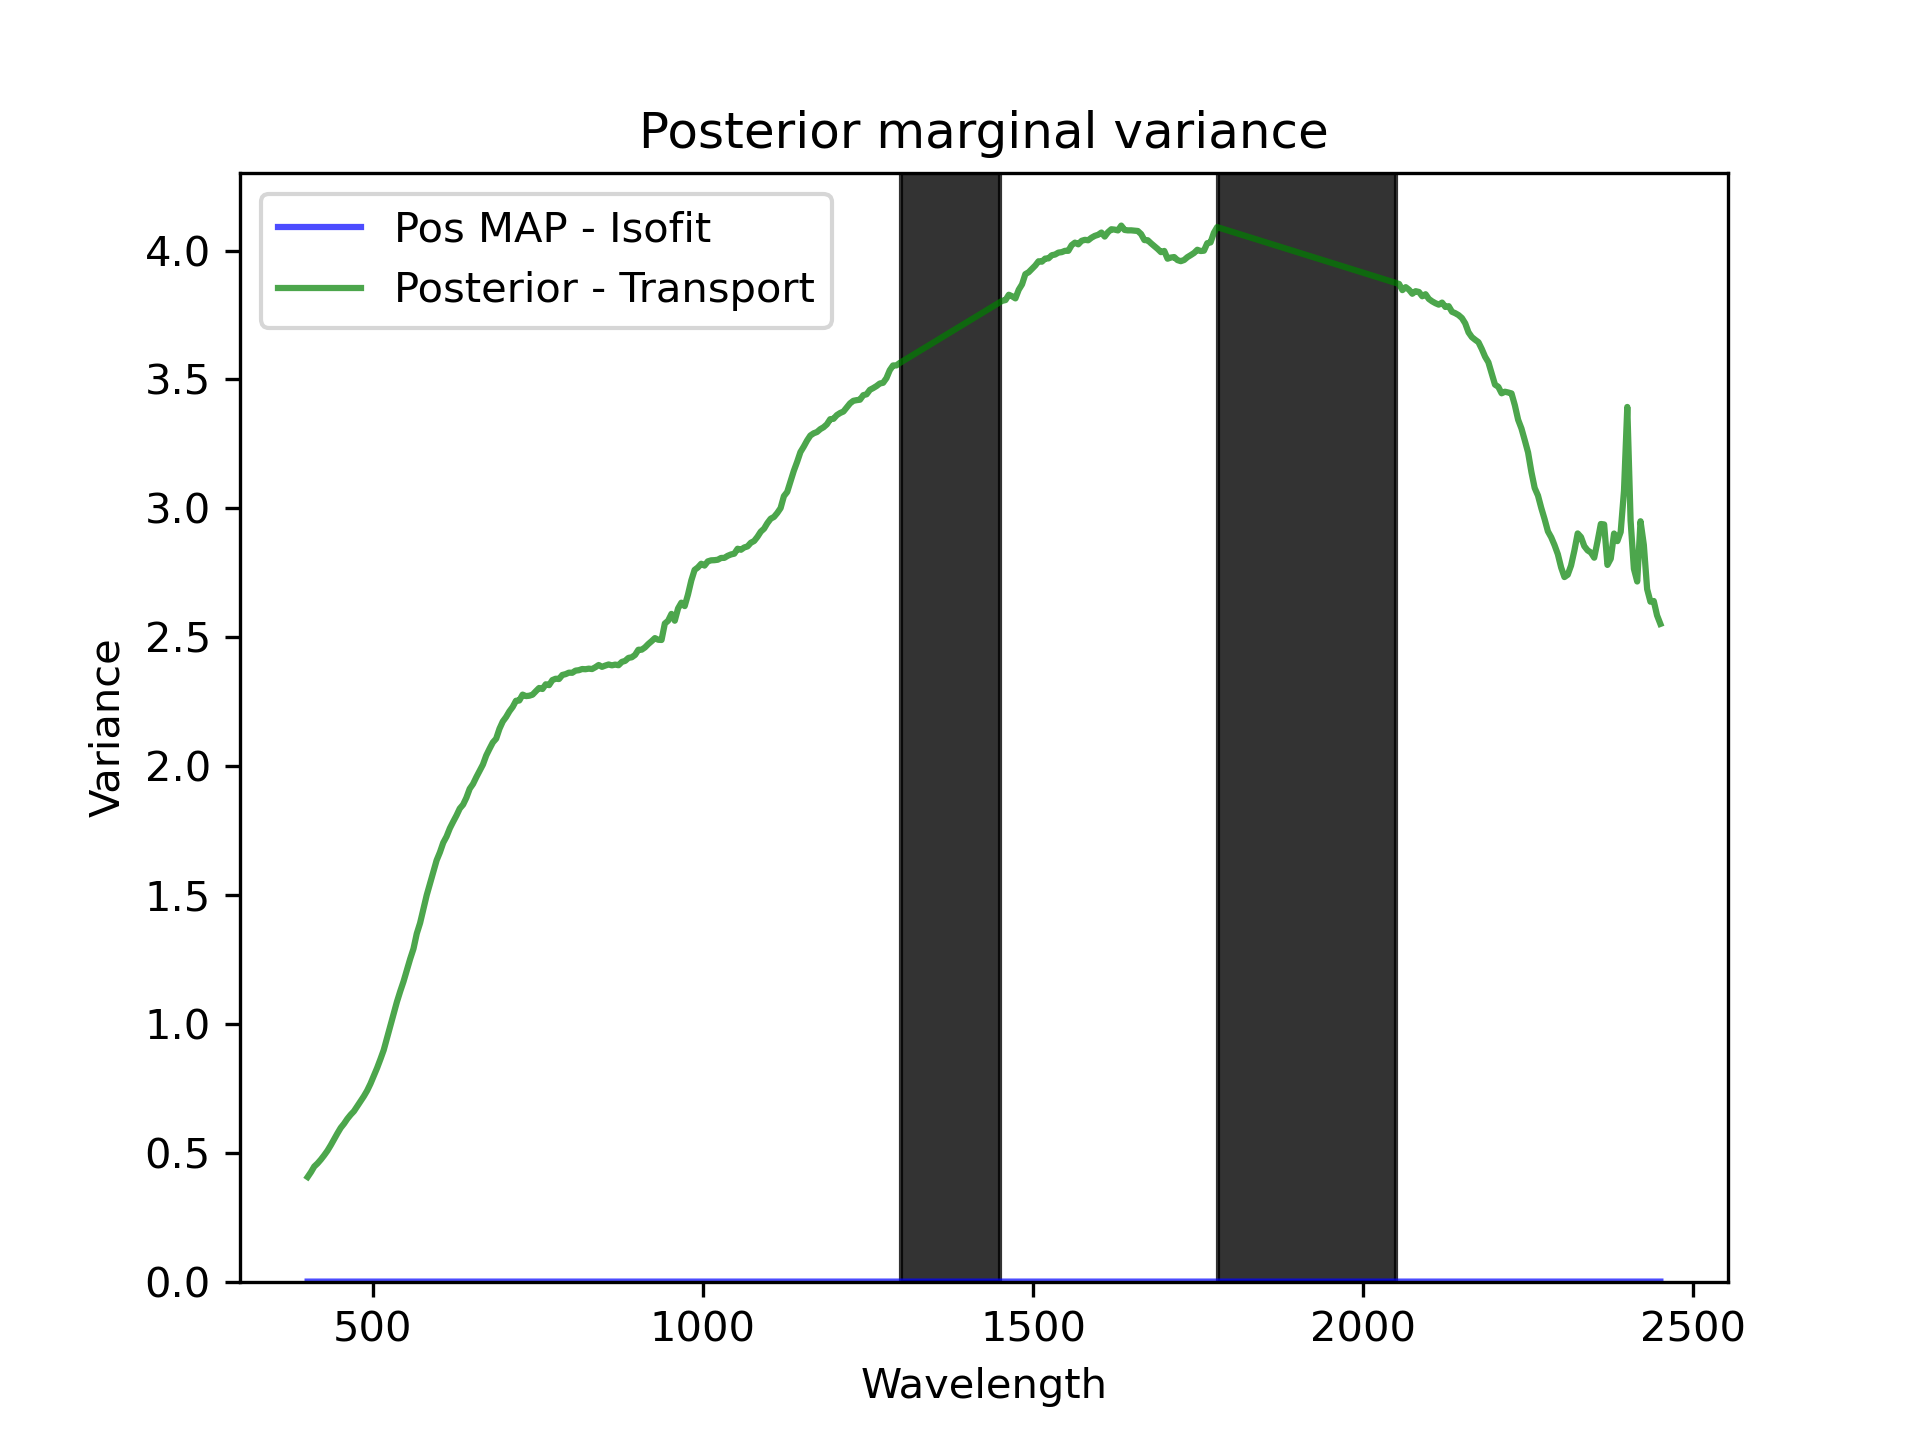
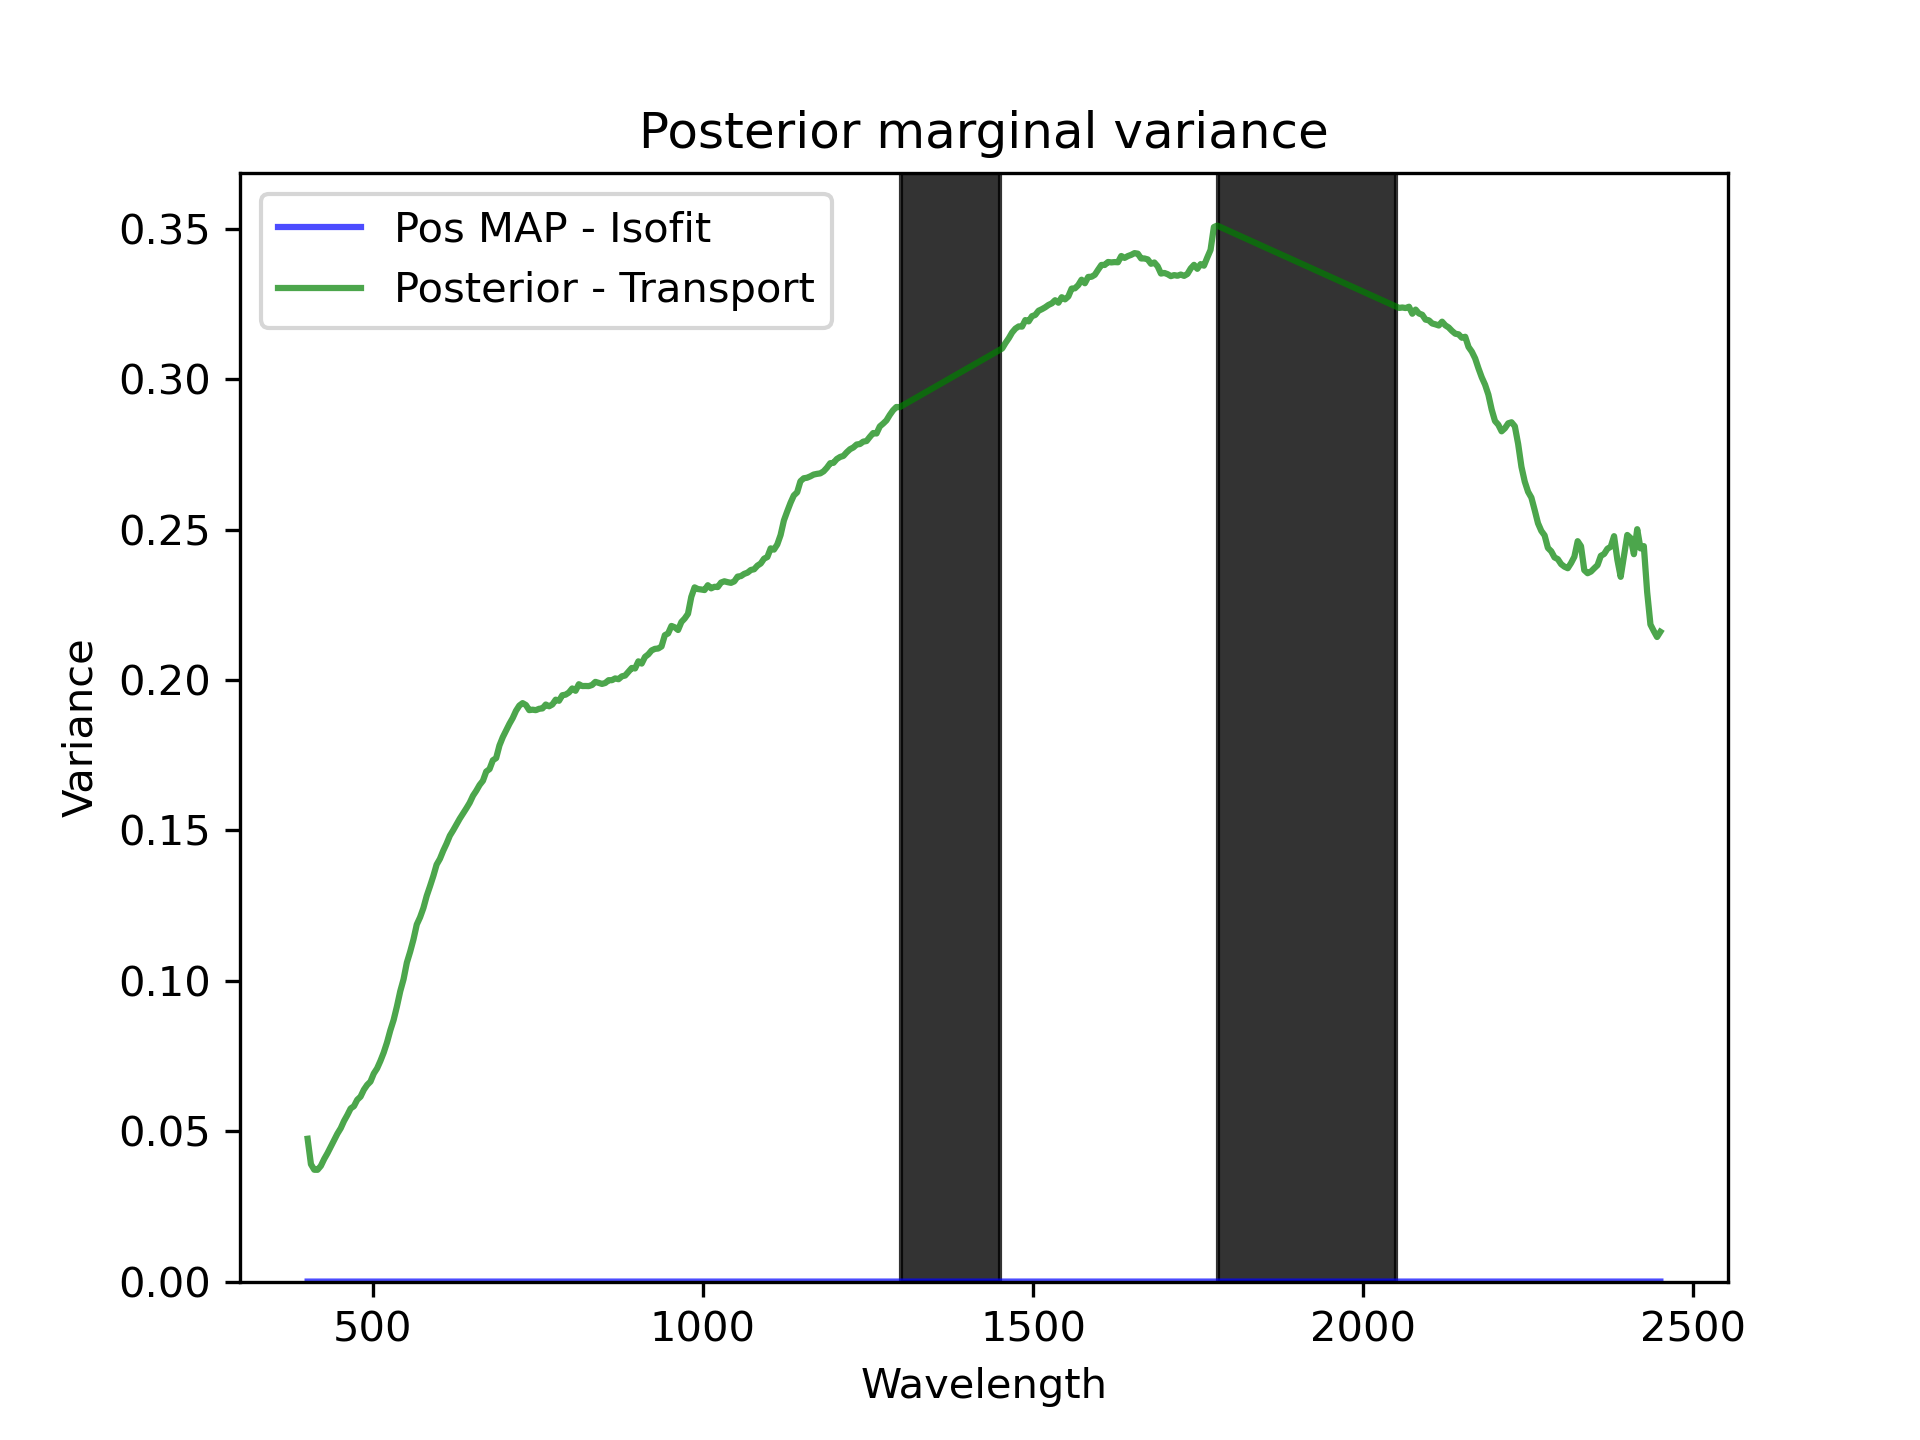
update

diff --git a/experiment_dark.py b/experiment_dark.py
@@ -1,0 +1,22 @@
+import os
+import numpy as np
+import pandas as pd
+
+# TODO change to correct paths
+loss = pd.read_csv('~/code/PCP-Map/experiments/tabcond/dark_valid_hist.csv').to_numpy()
+param = pd.read_csv('~/code/PCP-Map/experiments/tabcond/dark_params_hist.csv').to_numpy()
+loss_param = np.concatenate((param[:, 1:], loss[:, 1:]), axis=1)
+unique_param = loss_param[np.unique(loss_param[:, :-1], return_index=True, axis=0)[1]]
+unique_param = unique_param[unique_param[:, -1].argsort()]
+param_list = unique_param[0, :]
+
+batch_size = int(param_list[0])
+lr = param_list[1]
+width = int(param_list[2])
+width_y = int(param_list[3])
+num_layers = int(param_list[4])
+
+os.system(
+    "python train_cond.py --data_path '~/code/PCP-Map/ens/dark.p' --valid_freq 50 --early_stopping 20 --pca_components_x 40 --pca_components_y 40"
+    " --num_layers_pi " + str(num_layers) + " --feature_dim " + str(width) + " --feature_y_dim " + str(width_y) +
+    " --batch_size " + str(batch_size) + " --lr " + str(lr) + " --save_test 1 --save 'experiments/cond/dark'"

diff --git a/experiment_mars.py b/experiment_mars.py
@@ -1,0 +1,22 @@
+import os
+import numpy as np
+import pandas as pd
+
+# TODO change to correct paths
+loss = pd.read_csv('~/code/PCP-Map/experiments/tabcond/mars_valid_hist.csv').to_numpy()
+param = pd.read_csv('~/code/PCP-Map/experiments/tabcond/mars_params_hist.csv').to_numpy()
+loss_param = np.concatenate((param[:, 1:], loss[:, 1:]), axis=1)
+unique_param = loss_param[np.unique(loss_param[:, :-1], return_index=True, axis=0)[1]]
+unique_param = unique_param[unique_param[:, -1].argsort()]
+param_list = unique_param[0, :]
+
+batch_size = int(param_list[0])
+lr = param_list[1]
+width = int(param_list[2])
+width_y = int(param_list[3])
+num_layers = int(param_list[4])
+
+os.system(
+    "python train_cond.py --data_path '~/code/PCP-Map/ens/mars.p' --valid_freq 50 --early_stopping 20 --pca_components_x 40 --pca_components_y 40"
+    " --num_layers_pi " + str(num_layers) + " --feature_dim " + str(width) + " --feature_y_dim " + str(width_y) +
+    " --batch_size " + str(batch_size) + " --lr " + str(lr) + " --save_test 1 --save 'experiments/cond/mars'"

diff --git a/data.py b/data.py
@@ -132,8 +132,8 @@ def plot_for_comparison(data_path, num_sample, pca_components_x, tol, bestParams
 
     return x_generated
 
-# checkpoint_path = 'experiments/cond/177/177_2024_06_11_21_52_36_32_0.01_3_256_checkpt.pth'
-checkpoint_path = 'experiments/cond/306/306_2024_06_13_00_40_56_32_0.01_2_64_checkpt.pth'
+checkpoint_path = 'experiments/cond/177/177_2024_06_11_21_52_36_32_0.01_3_256_checkpt.pth'
+# checkpoint_path = 'experiments/cond/306/306_2024_06_13_00_40_56_32_0.01_2_64_checkpt.pth'
 checkpoint = torch.load(checkpoint_path)
 
 args = checkpoint['args']
@@ -158,5 +158,5 @@ pcpmap = PCPMap(prior_picnn, picnn).to(device)
 
 pcpmap.load_state_dict(checkpoint['state_dict_picnn'])
 
-x_generated = plot_for_comparison('ens/306.p', 100, pca_components_x, tol, pcpmap, pca_components_y, test_ratio, random_state)
+x_generated = plot_for_comparison('ens/177.p', 100, pca_components_x, tol, pcpmap, pca_components_y, test_ratio, random_state)
 print(x_generated)
